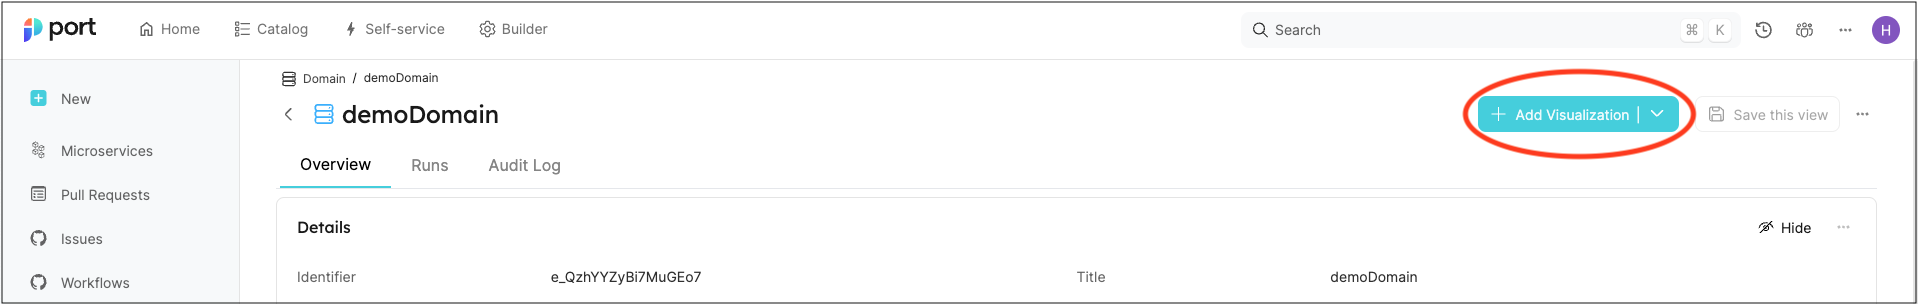
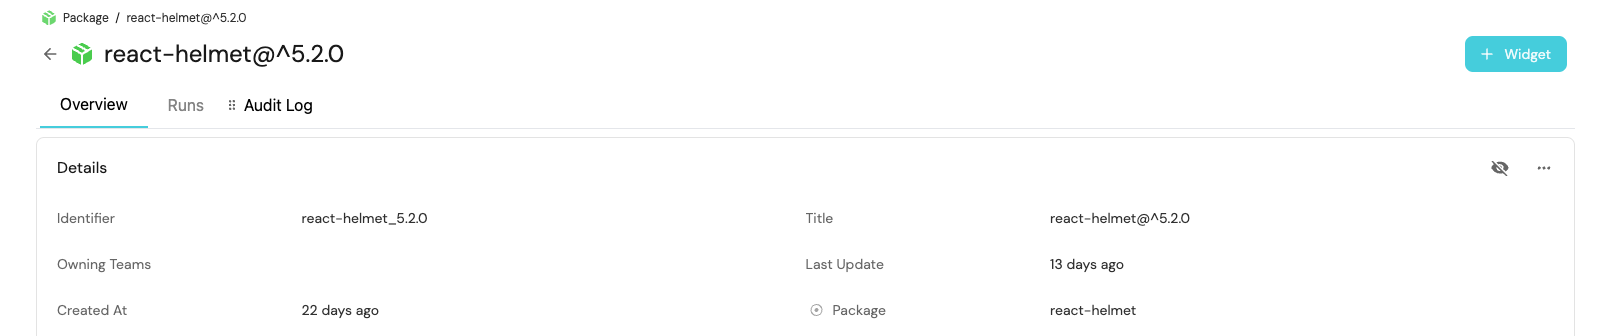
add docs for chart filters

diff --git a/docs/customize-pages-dashboards-and-plugins/dashboards/dashboards.md b/docs/customize-pages-dashboards-and-plugins/dashboards/dashboards.md
@@ -220,9 +220,74 @@ The table will automatically display data about each run, including status, inpu
 
 ## Chart filters
 
-[Pie charts](#pie-chart), [number charts](#number-chart) and [tables](#table) support filters, which allow you to include or exclude specific data from them. The filters are based on Port's [Search Rules](../../search-and-query/search-and-query.md#rules), and are set when creating the widget:
+[Pie charts](/customize-pages-dashboards-and-plugins/dashboards/#pie-chart), [number charts](/customize-pages-dashboards-and-plugins/dashboards/#number-chart) and [tables](/customize-pages-dashboards-and-plugins/dashboards/#table) support filters, which allow you to include or exclude specific data from them. The filters are based on Port's [Search Rules](/search-and-query/search-and-query.md#rules), and are set when creating the widget:
 
-<img src='/img/software-catalog/widgets/widgetFilterForm.png' width='400rem' />
+<img src='/img/software-catalog/widgets/widgetFilterForm.png' width='45%' />
+<br/><br/>
+
+Once you select the blueprint you want to visualize, default filters will appear in the `filters` field, for example:
+
+<img src='/img/software-catalog/widgets/defaultInternalChartFilters.png' width='35%' border='1px' />
+<br/><br/>
+
+These are used internally in Port and cannot be modified/removed.  
+You can add additional filters as you wish, by adding new objects to the `rules` array, for example:
+
+<details>
+<summary><b>Filter with additional rule example (click to expand)</b></summary>
+
+```json
+{
+  "combinator": "and",
+  "rules": [
+    {
+      "operator": "=",
+      "value": "service",
+      "property": "$blueprint"
+    },
+    {
+      "operator": "=",
+      "value": "someValue",
+      "property": "someProp"
+    }
+  ]
+}
+```
+</details>
+
+If you want to add additional rules with a different combinator, you can nest them inside a new object, for example:
+
+<details>
+<summary><b>Filter with nested rules example (click to expand)</b></summary>
+
+```json
+{
+  "combinator": "and",
+  "rules": [
+    {
+      "operator": "=",
+      "value": "service",
+      "property": "$blueprint"
+    },
+    {
+      "combinator": "or",
+      "rules": [
+        {
+          "operator": "=",
+          "value": "someValue",
+          "property": "someProp"
+        },
+        {
+          "operator": "=",
+          "value": "anotherValue",
+          "property": "anotherProp"
+        }
+      ]
+    }
+  ]
+}
+```
+</details>
 
 ### Filter example: only deployment entities from the last week
 

diff --git a/docs/customize-pages-dashboards-and-plugins/page/entity-page.md b/docs/customize-pages-dashboards-and-plugins/page/entity-page.md
@@ -62,19 +62,28 @@ This tab displays all actions (including CRUD) that caused any change to the ent
 
 [Visualization widgets](/customize-pages-dashboards-and-plugins/dashboards/) can be added to an entity page to display data using graphic elements.
 
-You can add widgets to an entity page by using the `Add visualization` menu:
+You can add widgets to an entity page by clicking on the `+ Widget` button in the top right corner:
 
-![addVisualizations](../../../static/img/software-catalog/pages/addVisualizations.png)
+<img src='/img/software-catalog/pages/addVisualizations.png' width='100%' border='1px' />
+<br/><br/>
 
 Let's create a simple number chart that displays the number of `System` entities related to this `Domain`:
 
 <img src='/img/software-catalog/pages/demoNumberChart.png' width='350rem' />
+<br/><br/>
 
 After the first widget is created, a new tab called `dashboard` will be created in the entity page displaying the new widget:
 
-![entityAfterVisualization](../../../static/img/software-catalog/pages/entityAfterVisualization.png)
+![entityAfterVisualization](/img/software-catalog/pages/entityAfterVisualization.png)
 
 Each additional visualization will be added as a widget to the `dashboard` tab.
+
+### Chart filters
+
+[Pie charts](#pie-chart), [number charts](#number-chart) and [tables](#table) support filters, which allow you to include or exclude specific data from them. The filters are based on Port's [Search Rules](/search-and-query/search-and-query.md#rules), and are set when creating the widget.  
+
+For more information and examples of chart filters, click [here](/customize-pages-dashboards-and-plugins/dashboards/#chart-filters).
+
 
 ## Additional tabs
 
